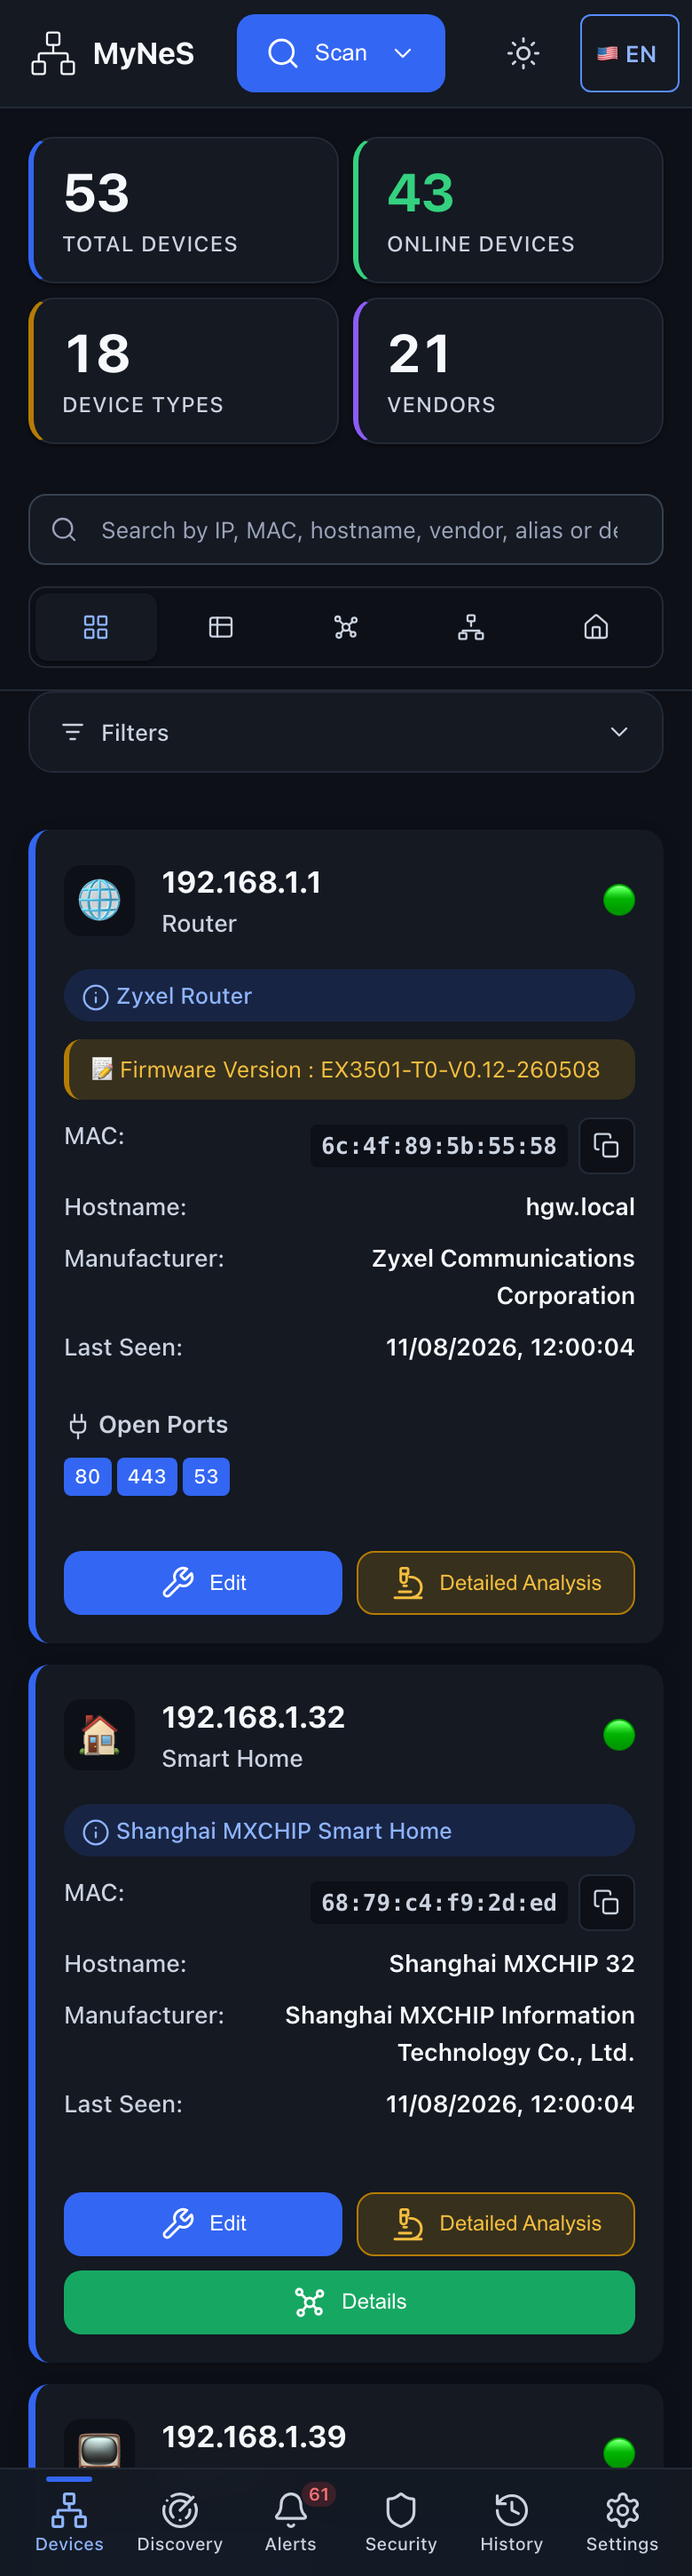
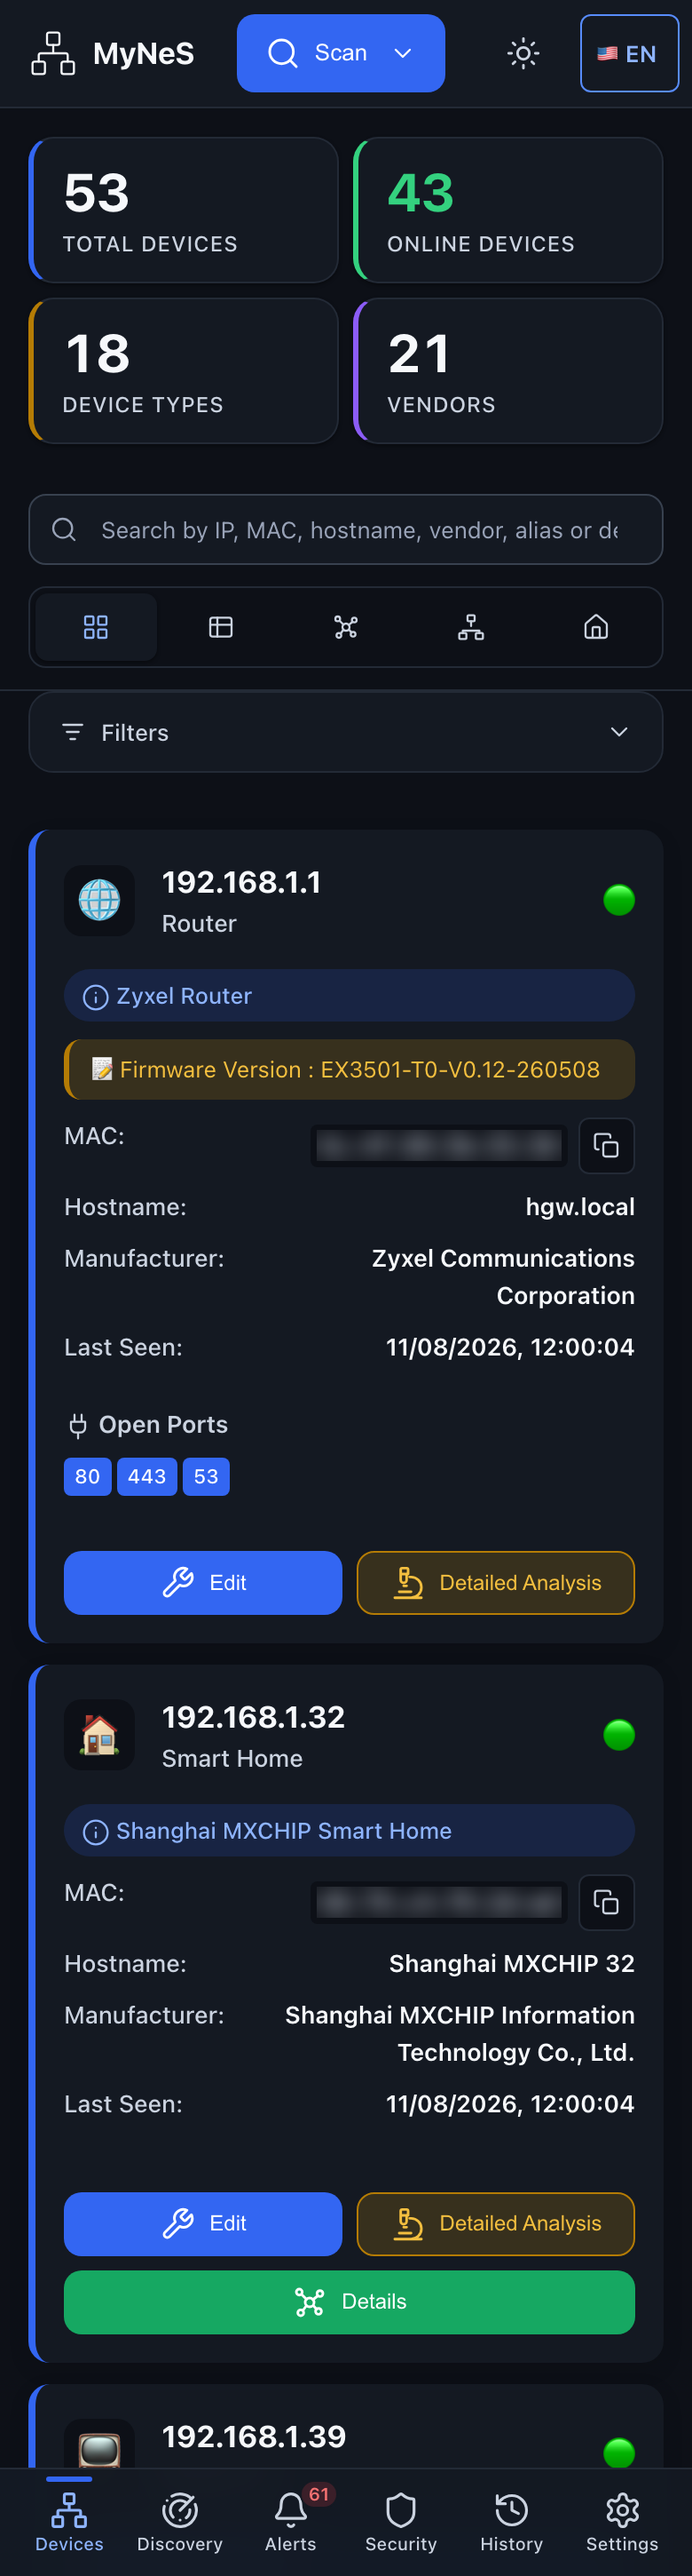
feat: saveable default filters, plus filter popover and badge fixes
- Settings > Default filters now has a Save button that pins the current
  selection as the defaults every page resets to (mynes.filters.defaults);
  reset() and a first-ever visit start from these, not a blank slate.
- Multi-select popovers use position:fixed anchored to their button so they
  escape ancestor overflow/clip (short cards and the History section used to
  slice the options off); flip above when they'd spill past the viewport and
  close on outside click / scroll / resize.
- Filter badge always shows its count (a reset to 0 no longer hides it), and
  activeCount() counts one per active filter, not one per picked value.
- Multi-select shows "All"/count in the label; button carries an aria-label.
- Drop the dead inline filter script from index.html (filters.js owns it now).
- redact_macs.py: helper to scrub MACs from screenshots; refresh three shots.

Claude-Session: https://claude.ai/code/session_01KnGCoLNe7nYP7wBZngfNQy

Changed region(s): [[0.4615, 0.7138, 0.8308, 0.7448], [0.4615, 0.4345, 0.8, 0.4655]]

diff --git a/mynes/web/static/js/filters.js b/mynes/web/static/js/filters.js
@@ -16,15 +16,25 @@
     'use strict';
 
     const KEY = 'mynes.filters';
+    const DKEY = 'mynes.filters.defaults';   // user-saved defaults (Settings > Default filters)
     const DEFAULTS = {
         q: '',
         types: [], vendors: [], statuses: [],
         showContainers: true, showNoIp: true, showBluetooth: true, showRandomMac: true,
     };
 
-    function load() {
-        try { return { ...DEFAULTS, ...(JSON.parse(localStorage.getItem(KEY)) || {}) }; }
+    // The user's saved defaults, layered over the built-ins. reset() returns to
+    // these and a first-ever visit (no session filters yet) starts from them -
+    // that is what "Default filters" in Settings actually means.
+    function loadDefaults() {
+        try { return { ...DEFAULTS, ...(JSON.parse(localStorage.getItem(DKEY)) || {}) }; }
         catch (_) { return { ...DEFAULTS }; }
+    }
+    function load() {
+        try {
+            const stored = JSON.parse(localStorage.getItem(KEY));
+            return stored ? { ...DEFAULTS, ...stored } : { ...loadDefaults(), q: '' };
+        } catch (_) { return { ...DEFAULTS }; }
     }
     let state = load();
 
@@ -92,11 +102,25 @@
     }
     function set(patch) { state = { ...state, ...patch }; save(); }
     function get() { return { ...state }; }
-    function reset() { state = { ...DEFAULTS }; save(); }
+    // Reset returns to the user's saved defaults (or the built-ins), never a
+    // blank slate the "Default filters" setting couldn't influence.
+    function reset() { state = { ...loadDefaults(), q: '' }; save(); }
+    // Persist the current selection as the saved defaults (Settings > Save).
+    function saveAsDefaults() {
+        const d = {};
+        for (const k of ['types', 'vendors', 'statuses', 'showContainers', 'showNoIp', 'showBluetooth', 'showRandomMac'])
+            d[k] = state[k];
+        try { localStorage.setItem(DKEY, JSON.stringify(d)); } catch (_) { /* private mode */ }
+        return d;
+    }
 
-    /** How many filters narrow the view - drives the little badge on the panel. */
+    /** How many filters narrow the view - ONE per active filter, not per value
+     *  (Device Type with 3 picks is a single active filter). Drives the badge. */
     function activeCount() {
-        let n = state.types.length + state.vendors.length + state.statuses.length;
+        let n = 0;
+        if (state.types.length) n++;
+        if (state.vendors.length) n++;
+        if (state.statuses.length) n++;
         for (const k of ['showContainers', 'showNoIp', 'showBluetooth', 'showRandomMac']) if (!state[k]) n++;
         if (state.q) n++;
         return n;
@@ -110,6 +134,31 @@
     function tr(key, fallback) {
         const s = (typeof window.t === 'function') ? window.t(key) : key;
         return (s === key || s == null) ? fallback : s;
+    }
+
+    /* Position an open popover with position:fixed anchored to its button, so it
+     * escapes any ancestor overflow/clip - a short card or the History uptime
+     * section used to slice the options off (they rendered inside the section
+     * instead of floating above it). Flips above the button when it would spill
+     * past the viewport bottom. Recomputed on each open; on scroll/resize the
+     * popovers simply close (see the global listeners below). */
+    function placePop(btn, pop) {
+        const r = btn.getBoundingClientRect();
+        pop.style.position = 'fixed';
+        pop.style.zIndex = '1200';
+        pop.style.left = r.left + 'px';
+        pop.style.minWidth = r.width + 'px';
+        pop.style.top = (r.bottom + 4) + 'px';
+        pop.style.bottom = 'auto';
+        const h = pop.offsetHeight;                       // measured while visible
+        if (r.bottom + 4 + h > window.innerHeight && r.top - 4 - h > 0) {
+            pop.style.top = 'auto';
+            pop.style.bottom = (window.innerHeight - r.top + 4) + 'px';
+        }
+    }
+    function closeAllPops() {
+        document.querySelectorAll('.ds-multi__pop').forEach(p => p.setAttribute('hidden', ''));
+        document.querySelectorAll('.ds-multi__btn').forEach(b => b.setAttribute('aria-expanded', 'false'));
     }
 
     /*
@@ -127,9 +176,8 @@
 
         el.classList.add('ds-multi');
         el.innerHTML = `
-            <button type="button" class="ds-multi__btn" aria-expanded="false">
-                <span class="ds-multi__label">${esc(opts.label)}</span>
-                <span class="ds-multi__count"></span>
+            <button type="button" class="ds-multi__btn" aria-expanded="false" aria-label="${esc(opts.label)}">
+                <span class="ds-multi__label"></span>
                 <svg class="ds-icon ds-icon--sm" aria-hidden="true"><use href="#i-chevron-down"/></svg>
             </button>
             <div class="ds-multi__pop" hidden>
@@ -144,7 +192,9 @@
 
         function syncCount() {
             const n = (state[key] || []).length;
-            el.querySelector('.ds-multi__count').textContent = n ? `(${n})` : tr('all', 'All');
+            // Show "All" (or a count) like the native filter selects do - the
+            // filter's name already sits in the label above the box.
+            el.querySelector('.ds-multi__label').textContent = n ? `(${n})` : tr('all', 'All');
             btn.classList.toggle('is-active', n > 0);
         }
         function paint(q) {
@@ -164,6 +214,7 @@
             btn.setAttribute('aria-expanded', 'true');
             search.value = '';
             paint('');
+            placePop(btn, pop);
             search.focus();
         }
         function close() { pop.setAttribute('hidden', ''); btn.setAttribute('aria-expanded', 'false'); }
@@ -261,7 +312,7 @@
         function open() {
             document.querySelectorAll('.ds-multi__pop').forEach(p => { if (p !== pop) p.setAttribute('hidden', ''); });
             pop.removeAttribute('hidden'); btn.setAttribute('aria-expanded', 'true');
-            search.value = ''; paint(''); search.focus();
+            search.value = ''; paint(''); placePop(btn, pop); search.focus();
         }
         function close() { pop.setAttribute('hidden', ''); btn.setAttribute('aria-expanded', 'false'); }
 
@@ -305,9 +356,12 @@
     // Close any open popover on an outside click.
     document.addEventListener('click', e => {
         if (e.target.closest('.ds-multi')) return;
-        document.querySelectorAll('.ds-multi__pop').forEach(p => p.setAttribute('hidden', ''));
-        document.querySelectorAll('.ds-multi__btn').forEach(b => b.setAttribute('aria-expanded', 'false'));
+        closeAllPops();
     });
+    // A fixed-positioned popover doesn't move with the page, so its anchor would
+    // drift on scroll/resize - close it instead of leaving it stranded.
+    window.addEventListener('scroll', closeAllPops, true);   // capture: catch scrolls in any container
+    window.addEventListener('resize', closeAllPops);
 
     // Every <select> becomes the app's searchable dropdown - native browser
     // dropdowns are the exception, not the rule. Opt a select out with
@@ -351,7 +405,7 @@
     }
 
     window.MynesFilters = {
-        match, apply, get, set, reset, activeCount,
+        match, apply, get, set, reset, saveAsDefaults, activeCount,
         isContainer, isNoIp, isBluetooth, isRandomMac, vendorOf,
         mountMulti, enhanceSelect, autoEnhance, bindToggle, _selftest,
     };

diff --git a/mynes/web/templates/index.html b/mynes/web/templates/index.html
@@ -684,26 +684,4 @@
 <script src="/static/js/views.js"></script>
 <script src="/static/js/device-access.js"></script>
 <script src="/static/js/enhanced-details.js"></script>
-<script>
-  // Filters: a drawer on a phone, always-open panel from 1024px up. <details>
-  // owns the state, so this is the whole implementation.
-  (function () {
-    var panel = document.getElementById('filterPanel');
-    var wide = window.matchMedia('(min-width: 1024px)');
-    var apply = function (m) { if (m.matches) panel.open = true; };
-    apply(wide);
-    wide.addEventListener('change', apply);
-
-    // Badge the summary with how many filters are actually narrowing the list,
-    // so a collapsed panel never hides the reason a device is missing.
-    var selects = panel.querySelectorAll('select');
-    var badge = document.getElementById('activeFilterCount');
-    panel.addEventListener('change', function () {
-      var n = 0;
-      selects.forEach(function (s) { if (s.value) n++; });
-      badge.textContent = n;
-      badge.hidden = n === 0;
-    });
-  })();
-</script>
 {% endblock %}

diff --git a/mynes/web/templates/config.html b/mynes/web/templates/config.html
@@ -450,8 +450,9 @@
                             <div id="cfgVendorFilterMulti"></div>
                         </div>
                     </div>
-                    <div style="margin-top: var(--space-4);">
-                        <button class="btn btn-small" onclick="MynesFilters.reset()">{{ _('reset_filters') }}</button>
+                    <div style="margin-top: var(--space-4); display:flex; gap: var(--space-2);">
+                        <button type="button" class="btn btn-primary btn-small" id="cfgFiltersSave">{{ _('save') if _('save') != 'save' else 'Save' }}</button>
+                        <button type="button" class="btn btn-small" onclick="MynesFilters.reset()">{{ _('reset_filters') }}</button>
                     </div>
                 </div>
             </div>

diff --git a/mynes/web/static/js/config.js b/mynes/web/static/js/config.js
@@ -502,6 +502,15 @@ async function setupConfigFilters() {
         key: 'statuses', label: t('status'),
         options: () => [{ value: 'online', label: t('online') }, { value: 'offline', label: t('offline') }],
     });
+
+    // Edits above already persist live (shared store); Save pins the current
+    // selection as the defaults every page resets to, with explicit feedback.
+    const saveBtn = document.getElementById('cfgFiltersSave');
+    if (saveBtn) saveBtn.addEventListener('click', () => {
+        F.saveAsDefaults();
+        const msg = t('default_filters_saved');
+        showAlert(msg && msg !== 'default_filters_saved' ? msg : 'Default filters saved', 'success');
+    });
 }
 
 /*

diff --git a/mynes/web/static/js/main.js b/mynes/web/static/js/main.js
@@ -612,7 +612,7 @@ function filterDevices() {
         const n = MynesFilters.activeCount() + (aliasFilter ? 1 : 0) + (portFilter ? 1 : 0) + (trustFilter ? 1 : 0)
             + (locationFilter ? 1 : 0) + (connectionFilter ? 1 : 0) + (networkTypeFilter ? 1 : 0) + (networkFilter ? 1 : 0);
         badge.textContent = n;
-        badge.hidden = n === 0;
+        badge.hidden = false;   // always show the count - a reset (0 filters) shouldn't make the badge vanish
     }
 }
 

diff --git a/scripts/redact_macs.py b/scripts/redact_macs.py
@@ -1,0 +1,101 @@
+#!/usr/bin/env python3
+"""Blur MAC addresses (and BLE identifiers) out of screenshots before they ship.
+
+Any image embedded in the CHANGELOG / README must not leak a real device MAC.
+This OCRs an image, finds MAC-shaped and BLE-UUID-shaped tokens, and Gaussian-
+blurs their bounding boxes in place.
+
+    python scripts/redact_macs.py assets/screenshots/*.png
+    python scripts/redact_macs.py --check assets/screenshots/home-view.png
+
+Needs the `tesseract` binary (brew install tesseract); it is called over a
+subprocess so there is no Python OCR dependency. `--check` only reports what it
+would blur (exit 1 if anything found) - handy in CI or a pre-commit hook.
+
+ponytail: OCR is a heuristic. It catches the well-rendered `xx:xx:..`/UUID
+tokens in these UI screenshots; eyeball the result. The fuzzy pass widens the
+net for colons OCR misreads. Upgrade path: a second OCR psm pass if a miss shows.
+"""
+
+from __future__ import annotations
+
+import re
+import subprocess
+import sys
+from pathlib import Path
+
+from PIL import Image, ImageFilter
+
+# A clean MAC (aa:bb:cc:dd:ee:ff / aa-bb-...) or a BLE/CoreBluetooth UUID
+# (8-4-4-4-12 hex). Both identify a device and must never ship.
+MAC = re.compile(r"([0-9A-Fa-f]{2}[:\-]){4,5}[0-9A-Fa-f]{2}")
+UUID = re.compile(r"[0-9A-Fa-f]{8}-([0-9A-Fa-f]{4}-){3}[0-9A-Fa-f]{12}")
+
+
+def _is_maclike(tok: str) -> bool:
+    """Catch tokens OCR mangled - lots of colons and mostly hex is enough."""
+    if MAC.search(tok) or UUID.search(tok):
+        return True
+    core = tok.strip()
+    if core.count(":") >= 4:
+        hexish = sum(c in "0123456789abcdefABCDEF:-" for c in core)
+        return hexish / max(len(core), 1) > 0.8
+    return False
+
+
+def _boxes(path: Path) -> list[tuple[int, int, int, int, str]]:
+    """(left, top, w, h, text) for every OCR word that looks like a MAC."""
+    out = subprocess.run(
+        ["tesseract", str(path), "stdout", "--psm", "6", "tsv"],
+        capture_output=True, text=True, check=True,
+    ).stdout
+    hits = []
+    for line in out.splitlines()[1:]:
+        f = line.split("\t")
+        if len(f) < 12:
+            continue
+        text = f[11]
+        if text and _is_maclike(text):
+            left, top, w, h = (int(f[i]) for i in (6, 7, 8, 9))
+            hits.append((left, top, w, h, text))
+    return hits
+
+
+def redact(path: Path, check: bool = False) -> int:
+    hits = _boxes(path)
+    if not hits:
+        return 0
+    if check:
+        for left, top, w, h, text in hits:
+            print(f"  {path.name}: {text!r} at ({left},{top},{w}x{h})")
+        return len(hits)
+    img = Image.open(path).convert("RGB")
+    for left, top, w, h, _ in hits:
+        pad = max(4, h // 3)
+        box = (max(0, left - pad), max(0, top - pad),
+               min(img.width, left + w + pad), min(img.height, top + h + pad))
+        region = img.crop(box).filter(ImageFilter.GaussianBlur(radius=max(6, h // 2)))
+        img.paste(region, box)
+    img.save(path)
+    return len(hits)
+
+
+def main(argv: list[str]) -> int:
+    check = "--check" in argv
+    paths = [Path(a) for a in argv if not a.startswith("--")]
+    if not paths:
+        print(__doc__)
+        return 2
+    total = 0
+    for p in paths:
+        n = redact(p, check=check)
+        total += n
+        verb = "would blur" if check else "blurred"
+        print(f"{p}: {verb} {n} MAC/UUID region(s)")
+    if check and total:
+        return 1  # non-zero so a hook/CI can fail on a leak
+    return 0
+
+
+if __name__ == "__main__":
+    raise SystemExit(main(sys.argv[1:]))
